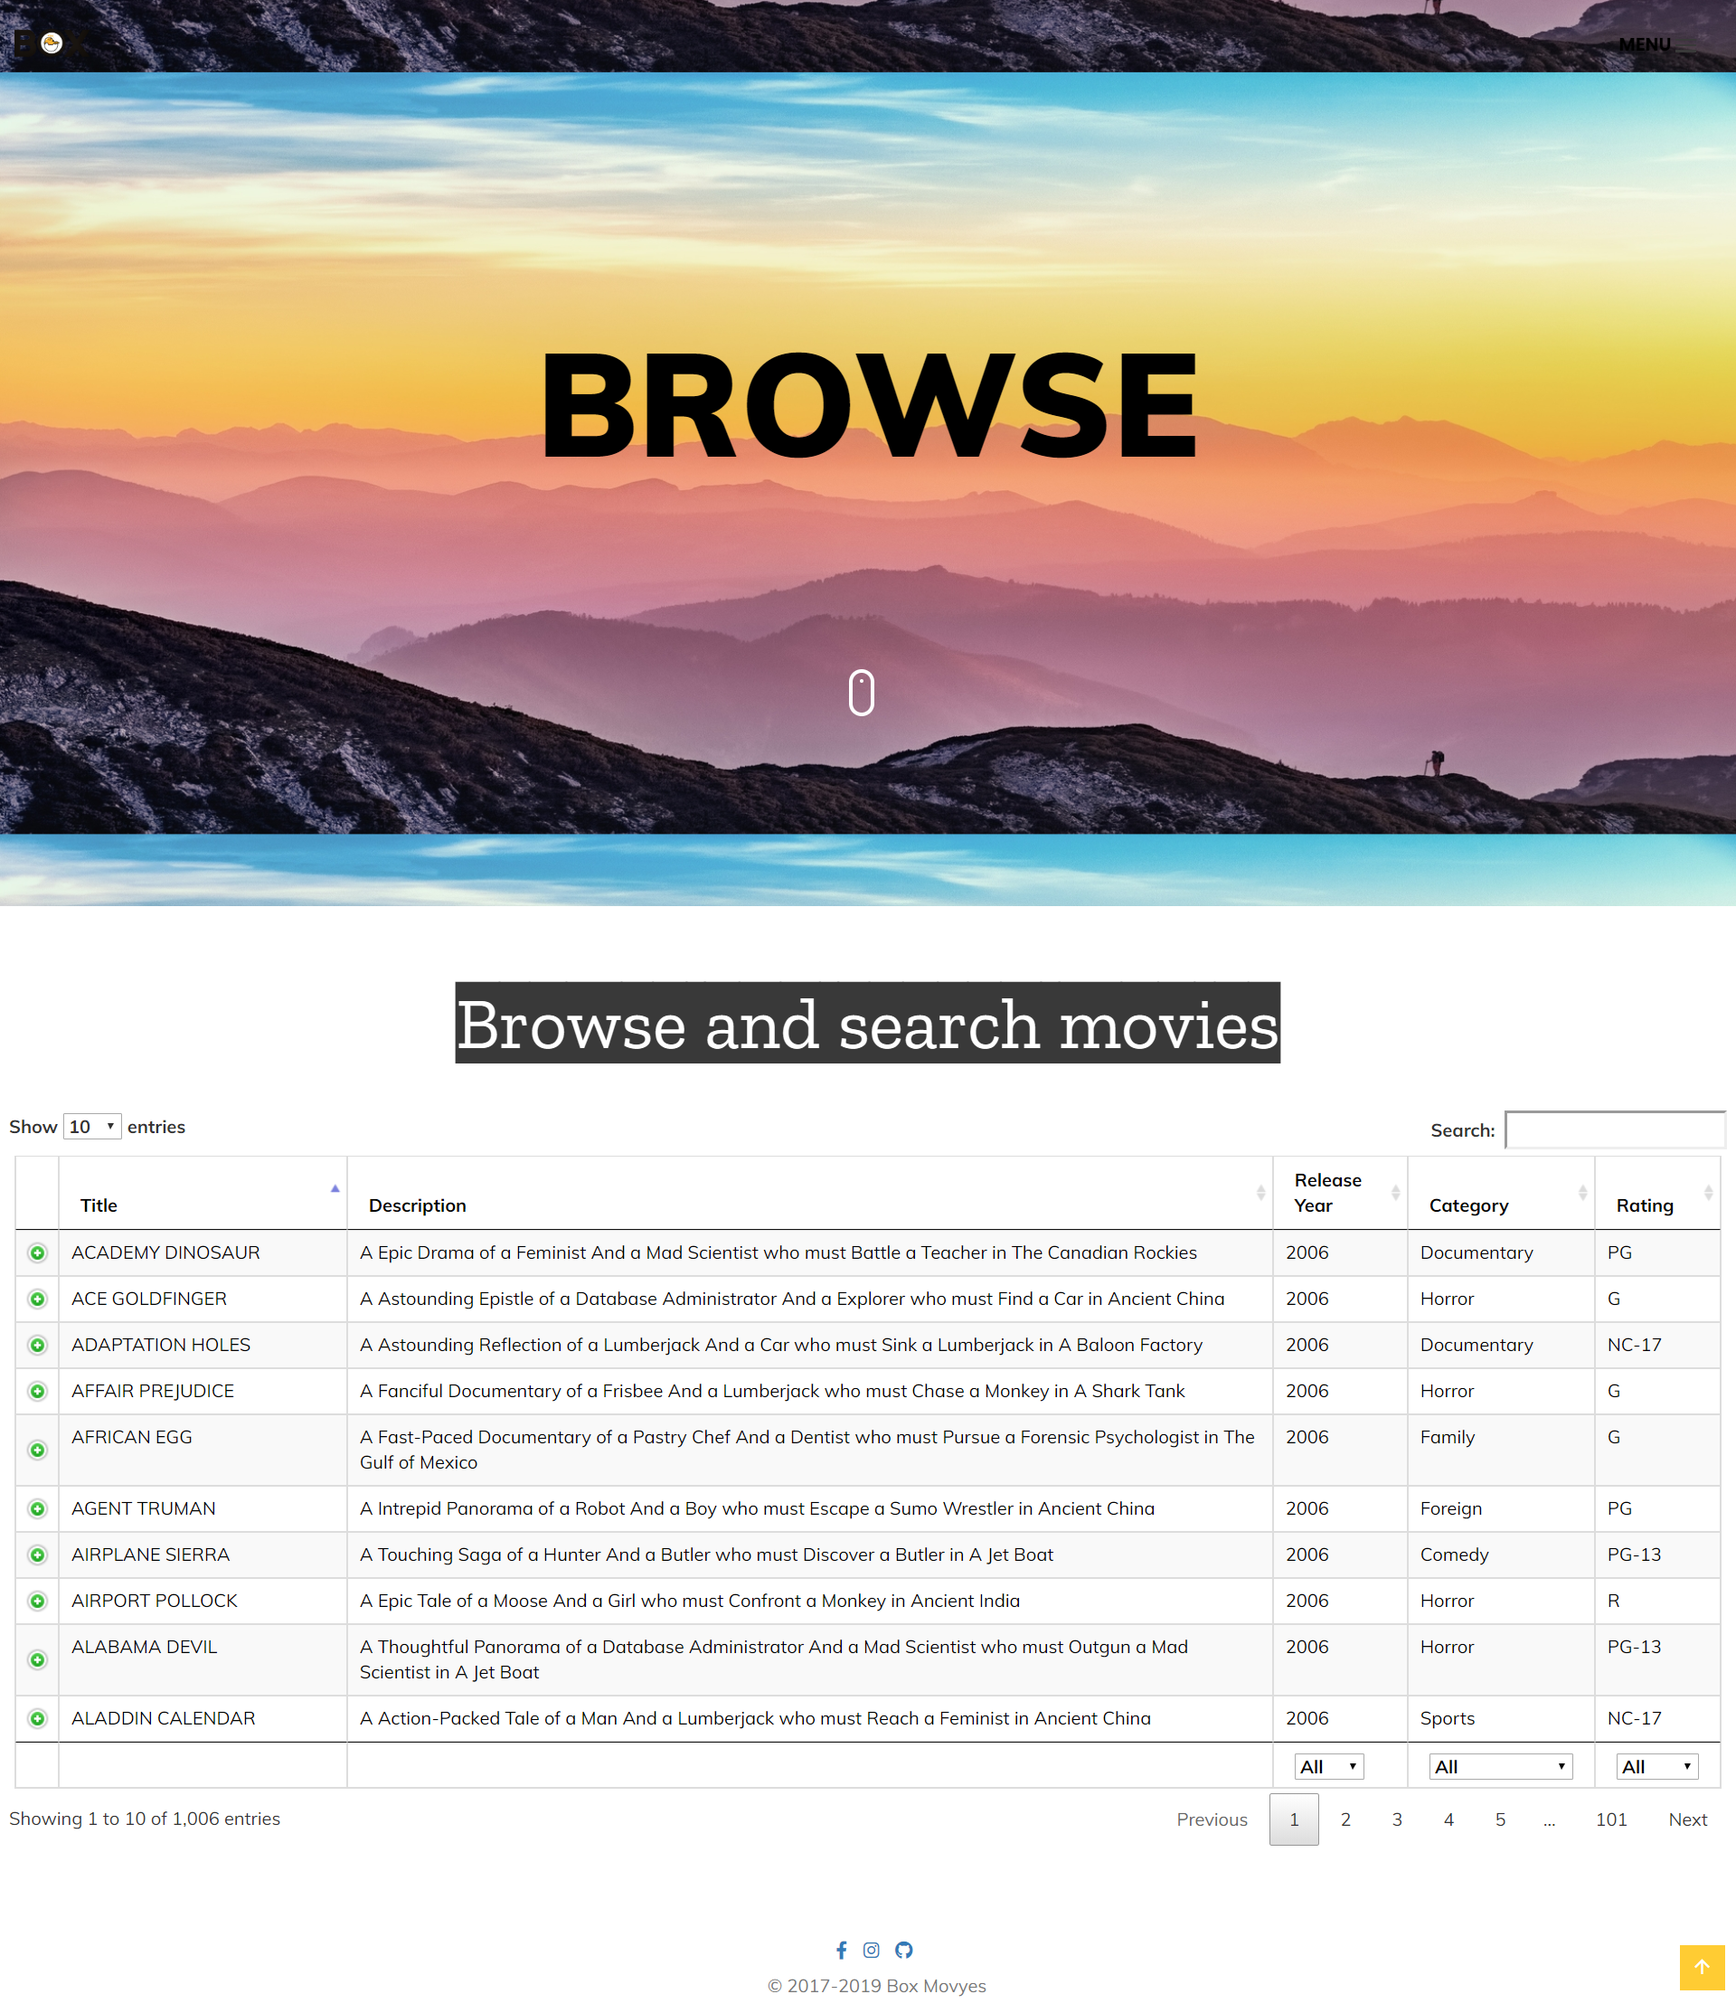
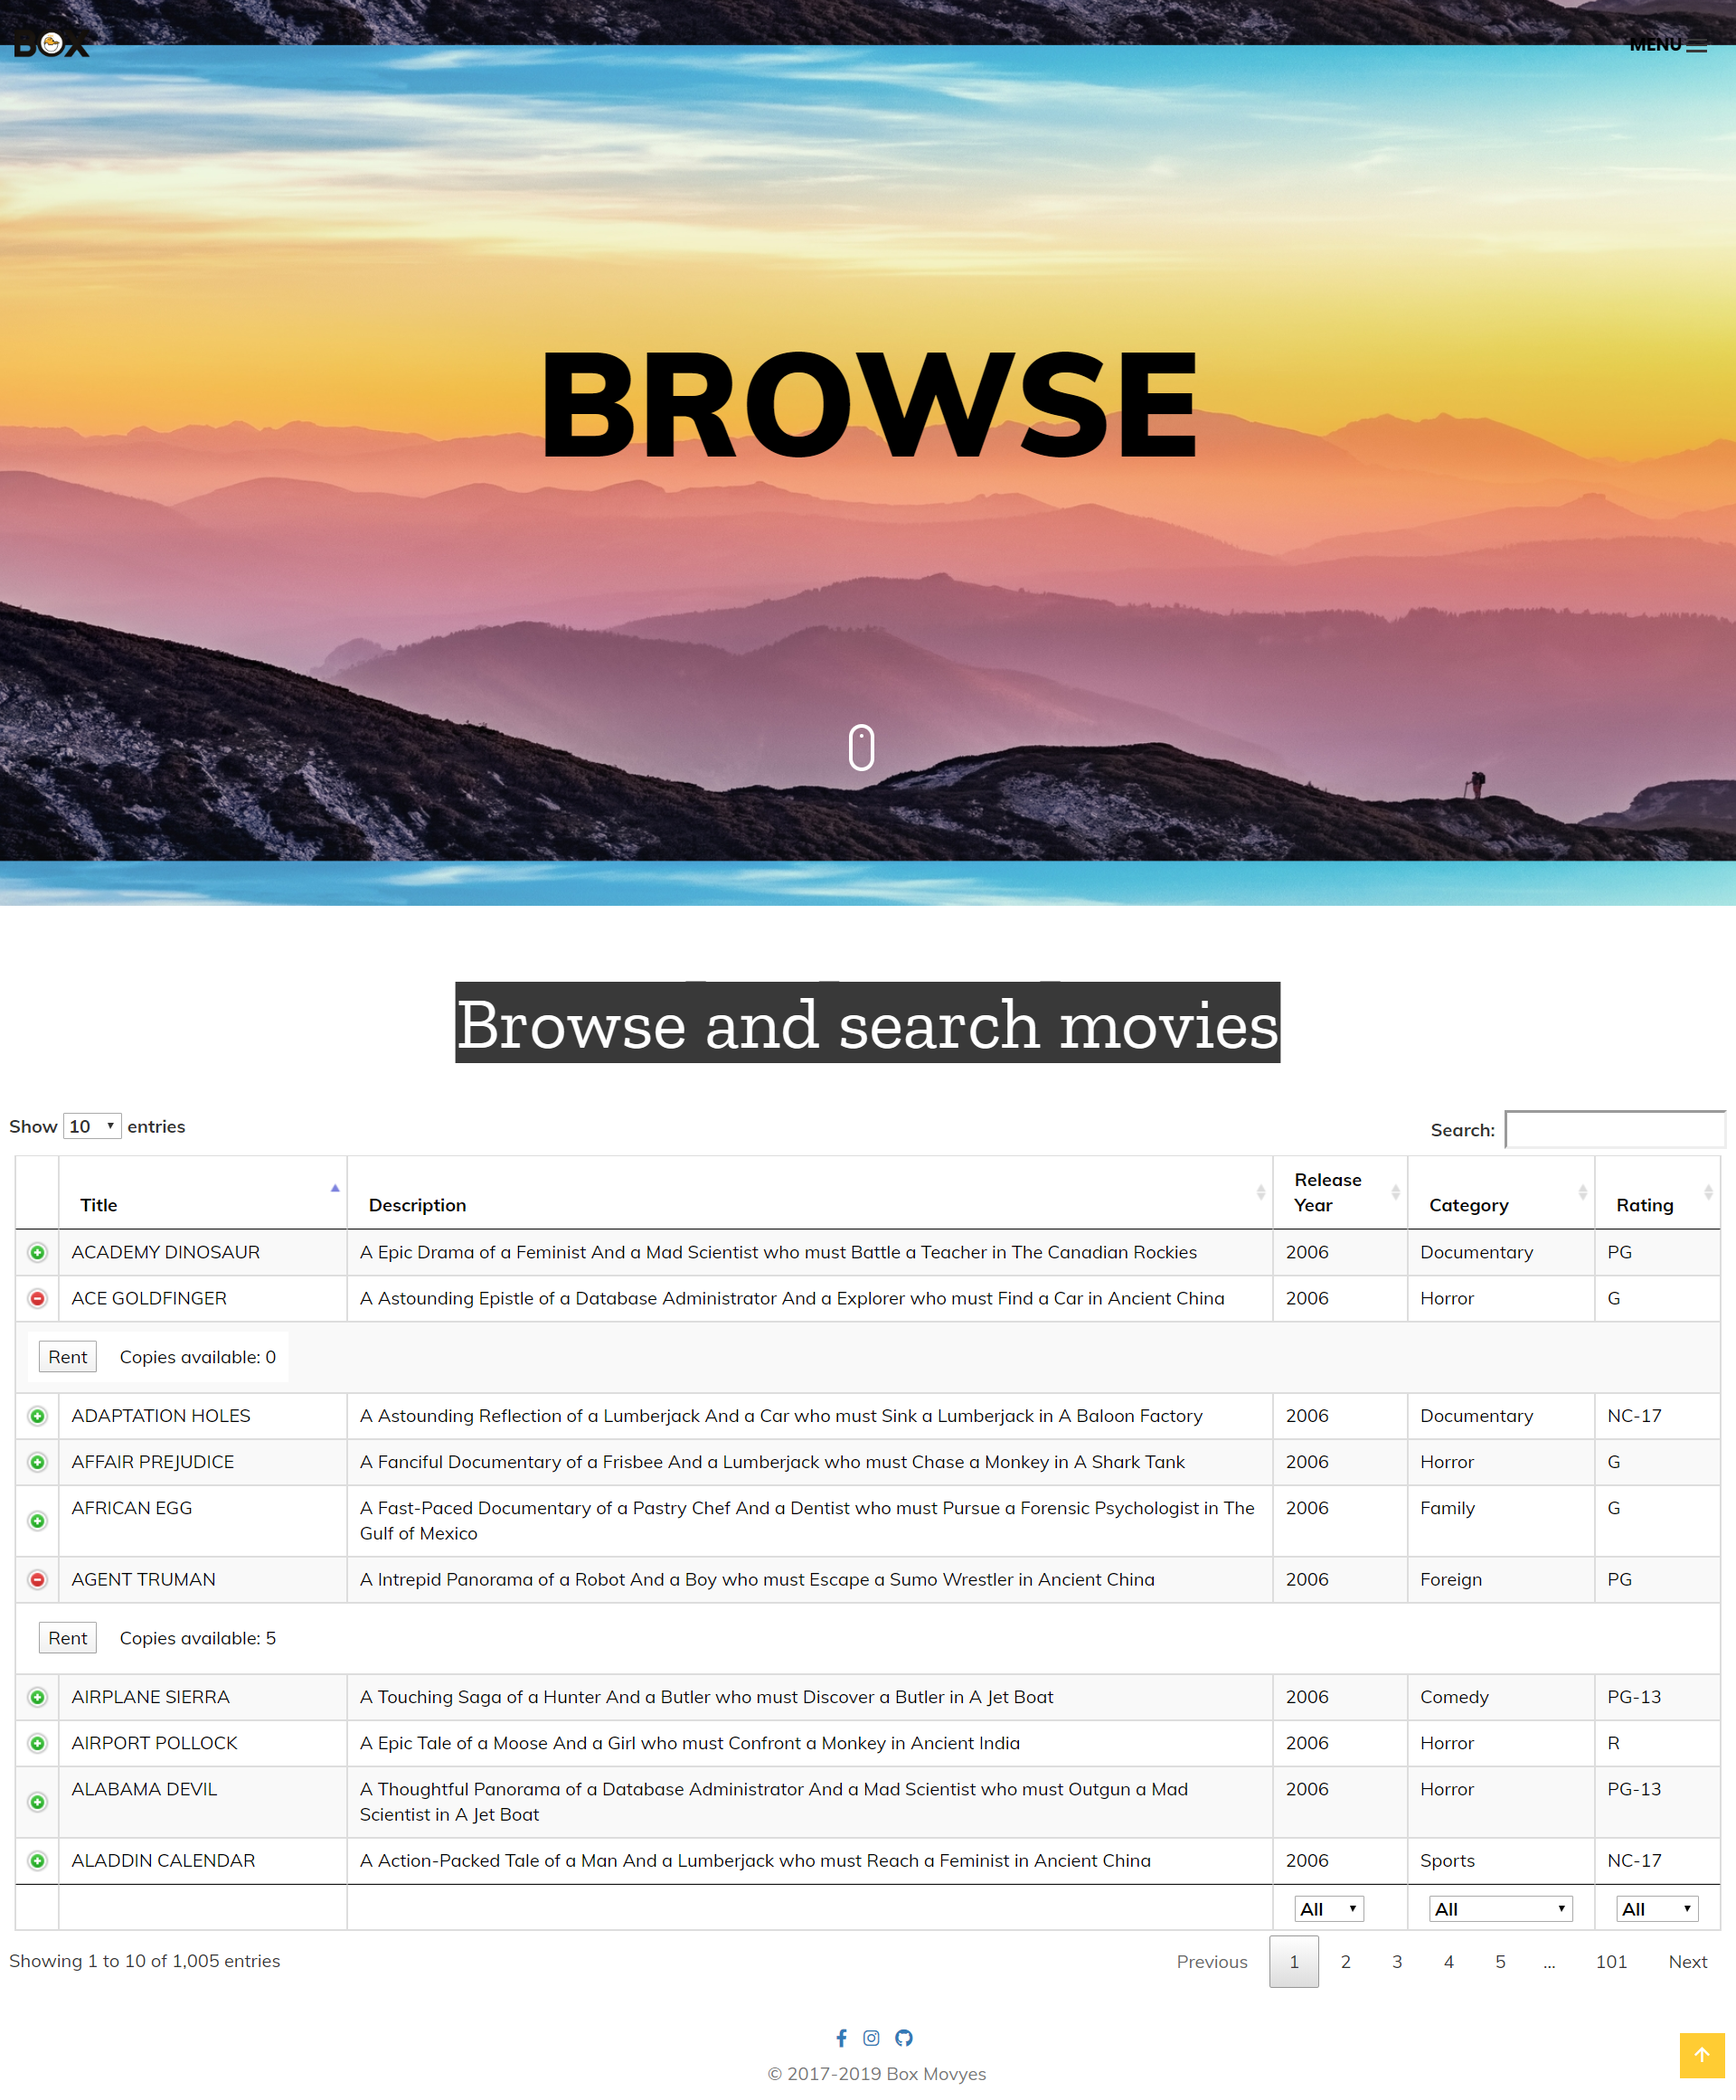
added code to display stock available in browse.php

diff --git a/search_page.php b/search_page.php
@@ -73,21 +73,18 @@ include 'search.php';
         <!-- nav -->
         <nav>
             <ul class="box-primary-nav">
-                
+
 
                 <li class="box-label"><a href="index.php" style="color: orange;">Home</a></li>
                 <?php
-                    session_start();
-                    if(isset($_SESSION['customer_check']))
-                    {
-                        echo("<li class='box-label'><a href='customer_page.php'>Profile</a></li>");
-                    }
-                    else if(isset($_SESSION['staff_check']))
-                    {
-                        echo("<li class='box-label'><a href='staff_page.php'>Profile</a></li>");
-                    }
-                
-                
+                session_start();
+                if (isset($_SESSION['customer_check'])) {
+                    echo ("<li class='box-label'><a href='customer_page.php'>Profile</a></li>");
+                } else if (isset($_SESSION['staff_check'])) {
+                    echo ("<li class='box-label'><a href='staff_page.php'>Profile</a></li>");
+                }
+
+
                 ?>
                 <li class="box-label"><a href="about.php">About</a></li>
                 <li class="box-label"><a href="search_page.php">Browse</a></li>
@@ -97,27 +94,27 @@ include 'search.php';
                         <input type="submit" style="position: absolute; left: -9999px; width: 1px; height: 1px;" tabindex="-1" />
                     </form>
                 </li>
-                              
-                <div class="login-logout">
-                <!-- button changes based on login status -->                
-                <?php 
-                
-                if(isset($_SESSION['email'])){
-                    echo ("<div class=\"btn-group\" role=\"group\" style=\"margin: 1em;\">");
-                    echo ("<a class=\"btn btn-primary btn-lg btn-warning\" style=\"color: black;\" href=\"logout.php\">Log off</a>");
-                    echo ("<a class=\"btn btn-primary btn-lg btn-warning\" style=\"color: black;\" href=\"register.php\">Register</a>" );               
-                    echo ("</div>");
-                }else{ 
-                    echo ("<div class=\"btn-group\" role=\"group\" style=\"margin: 1em;\">");
-                    echo ("<a class=\"btn btn-primary btn-lg btn-warning\" style=\"font-size: 20px; color: black;\" href=\"login.php\" >Log in</a>");
-                    echo ("<a class=\"btn btn-primary btn-lg btn-warning\" style=\"font-size: 20px; color: black;\" href=\"register.php\">Register</a>" );               
-                    echo ("</div>");
-                }
 
-                ?>
+                <div class="login-logout">
+                    <!-- button changes based on login status -->
+                    <?php
+
+                    if (isset($_SESSION['email'])) {
+                        echo ("<div class=\"btn-group\" role=\"group\" style=\"margin: 1em;\">");
+                        echo ("<a class=\"btn btn-primary btn-lg btn-warning\" style=\"color: black;\" href=\"logout.php\">Log off</a>");
+                        echo ("<a class=\"btn btn-primary btn-lg btn-warning\" style=\"color: black;\" href=\"register.php\">Register</a>");
+                        echo ("</div>");
+                    } else {
+                        echo ("<div class=\"btn-group\" role=\"group\" style=\"margin: 1em;\">");
+                        echo ("<a class=\"btn btn-primary btn-lg btn-warning\" style=\"font-size: 20px; color: black;\" href=\"login.php\" >Log in</a>");
+                        echo ("<a class=\"btn btn-primary btn-lg btn-warning\" style=\"font-size: 20px; color: black;\" href=\"register.php\">Register</a>");
+                        echo ("</div>");
+                    }
+
+                    ?>
                 </div>
                 <!--need to link register to register.php -->
-                
+
             </ul>
         </nav>
         <!-- end nav -->
@@ -135,11 +132,11 @@ include 'search.php';
     </div>
     <!-- end main-search -->
     <div class="search-text text-center">
-            <h2>Browse and search movies</h2>
+        <h2>Browse and search movies</h2>
     </div>
     <!--main content/ display search result-->
     <div id="search-table" class="main-container slideanim">
-        
+
         <table class="table js-dynamitable table-bordered table-responsive table-striped" id="search_result">
             <thead>
 
@@ -173,18 +170,7 @@ include 'search.php';
             </tfoot>
 
         </table>
-        <div class="back-btn">
-         <?php
-            if(isset($_SESSION['customer_check']))
-            {
-                echo("<a href=  'customer_page.php'><p class = ' btn btn-primary'>Back to Customer Page</p></a>");
-            }
-            else if(isset($_SESSION['staff_check']))
-            {
-                echo("<a href=  'staff_page.php'><p class = ' btn btn-primary'>Back to Staff Page</p></a>");
-            }
-        ?>
-        </div>
+
         <footer class="bg-w my-5 pt-5 text-muted text-center text-small">
             <ul class="list-inline" style="margin-bottom: 2px;">
                 <li class="list-inline-item"><a href="#"><i class="fab fa-facebook-f fa-md"></i></a></li>
@@ -195,9 +181,10 @@ include 'search.php';
             <p class="mb-1">&copy; 2017-2019 Box Movyes</p>
         </footer>
     </div>
-   
+
     <!--end main content-->
     <?php
+
     if (isset($_POST['result'])) {
         $result = $_POST['result'];
         echo ("<p style = 'display:none;'id = 'result'>$result</p>");
@@ -234,9 +221,12 @@ include 'search.php';
     <script src="js/custom.js"></script>
     <script>
         $result = document.getElementById("result").innerHTML;
+        
         /* Formatting function for row details - modify as you need */
         function format(d) {
             // `d` is the original data object for the row
+            
+            
             return '<table cellpadding="5" cellspacing="0" border="0" style="padding-left:50px;">' +
                 '<tr>' +
                 '<td>' +
@@ -245,7 +235,9 @@ include 'search.php';
                 '<input type = "submit" value = "Rent"></input>' +
                 '</form>' +
                 '</td' +
-                '</tr>' +
+                '<br>' +
+                '<td>' + 'Copies available: ' + d.Stock + '</td>' +
+                '</tr>' + 
                 '</table>';
         }
 

diff --git a/search.php b/search.php
@@ -1,33 +1,43 @@
 
 <?php
    
-    $conn = mysqli_connect('localhost','hfycb1_hfycb1','12345isint.','hfycb1_id13307643_assignment2') or die("Could not connect to database");
-    
+   $conn = mysqli_connect('localhost','hfycb1_hfycb1','12345isint.','hfycb1_id13307643_assignment2') or die("Could not connect to database");
+   
 
-    $sql = "SELECT film.film_id, film.title, film.description, film.release_year, film.rating, category.name 
-    FROM film 
-    JOIN film_category ON film_category.film_id = film.film_id
-    JOIN category ON category.category_id = film_category.category_id";
+   $sql = "SELECT film.film_id, film.title, film.description, film.release_year, film.rating, category.name FROM film JOIN film_category ON film_category.film_id = film.film_id JOIN category ON category.category_id = film_category.category_id ";
+   
 
-
-    $result = mysqli_query($conn, $sql) or die ("Bad Query: $sql");
-    $result_check = mysqli_num_rows($result);
-    $datarray = array();
-
-    if($result_check > 0){
-        while($row = mysqli_fetch_assoc($result)){
-            $datarray[] = $row;
-
-        }
-        json_encode($datarray);
-        $fp = fopen('assignment2.json', 'w');
-        fwrite($fp, json_encode($datarray));
-        fclose($fp);
-    }else{
-        echo "No result";
-    }
-    
-    mysqli_close($conn);
+   $result = mysqli_query($conn, $sql) or die ("Bad Query: $sql");
+   //$result2 = mysqli_query($conn, $sql2) or die ("Bad Query: $sql2");
+   $result_check = mysqli_num_rows($result);
+   
+   $rows = mysqli_fetch_array($result);
+  
+   
+   $datarray = array();
+   
+   if($result_check > 0){
+       while($rows = mysqli_fetch_assoc($result)){
+           
+           $film_id = $rows['film_id'];
+           $sql2 = "SELECT COUNT(B.film_id) AS 'Stock' FROM (SELECT inventory.inventory_id, inventory.film_id, inventory.store_id FROM rental INNER JOIN inventory ON rental.inventory_id = inventory.inventory_id INNER JOIN film ON inventory.film_id = film.film_id WHERE inventory.inventory_id NOT IN (SELECT inventory.inventory_id FROM rental INNER JOIN inventory ON rental.inventory_id = inventory.inventory_id INNER JOIN film ON film.film_id = inventory.film_id WHERE rental.return_date IS NULL AND film.film_id = '$film_id' AND inventory.inventory_status_id = 3)AND film.film_id = '$film_id' AND inventory.inventory_status_id = 3 GROUP BY inventory.inventory_id) AS B ";
+           $query = mysqli_query($conn, $sql2) or die ("Bad Query: $sql2");
+           $row1 = mysqli_fetch_assoc($query);
+           $stock_count = $row1['Stock'];
+           $temp = array("Stock"=>"$stock_count");
+           $merged_array = array_merge($rows, $temp);
+           $datarray[] = $merged_array;
+           
+       }
+       json_encode($datarray);
+       $fp = fopen('assignment2.json', 'w');
+       fwrite($fp, json_encode($datarray));
+       fclose($fp);
+   }else{
+       echo "No result";
+   }
+   
+   mysqli_close($conn);
 
 
 ?>
